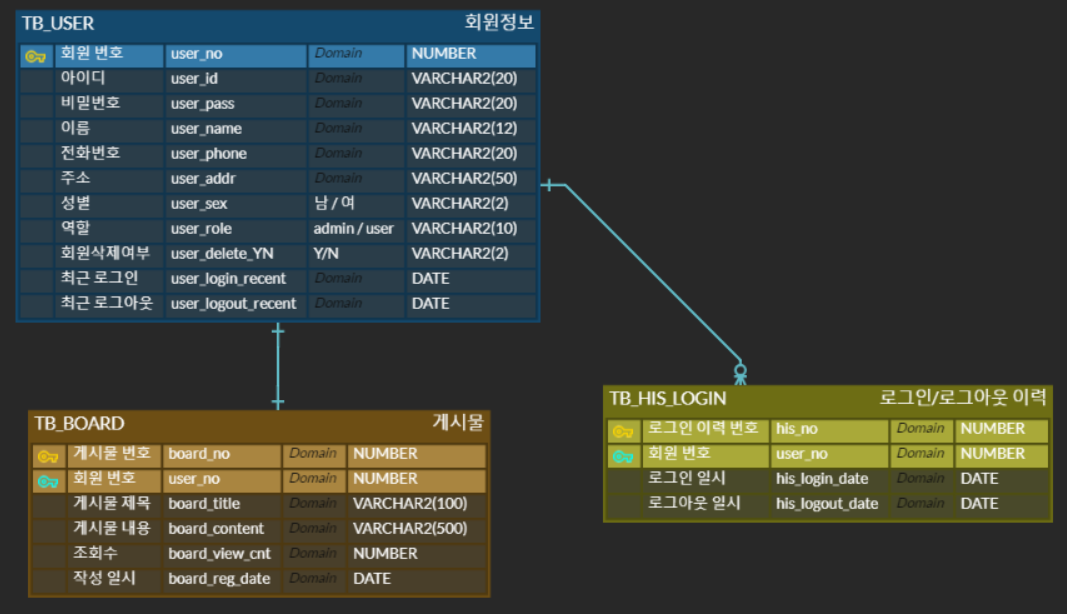
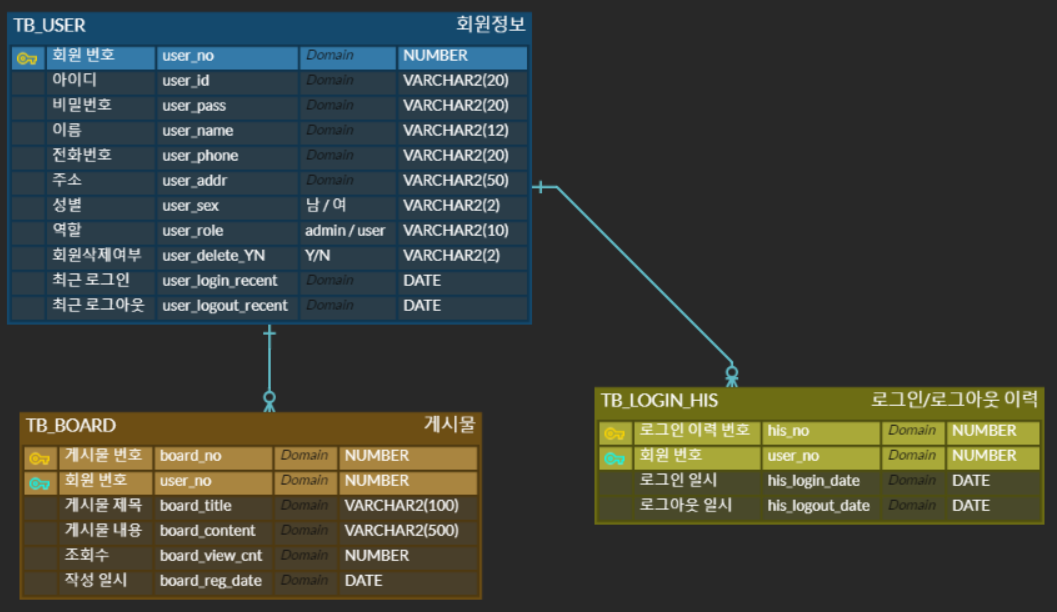
docs:erd 수정 및 db 설계 완료

Changed region(s): [[0.0, 0.0, 0.6244, 0.9935], [0.562, 0.5278, 0.9991, 0.8693], [0.6244, 0.4657, 0.6556, 0.5278]]

diff --git a/miniproject1/src/method/Verification.java b/miniproject1/src/method/Verification.java
@@ -2,7 +2,9 @@ package method;
 
 public class Verification {
 	
-	//아이디 확인
+	//아이디 존재 확인
+	
+	
 	//비밀번호 확인
 	
 	//회원 탈퇴 여부 확인
